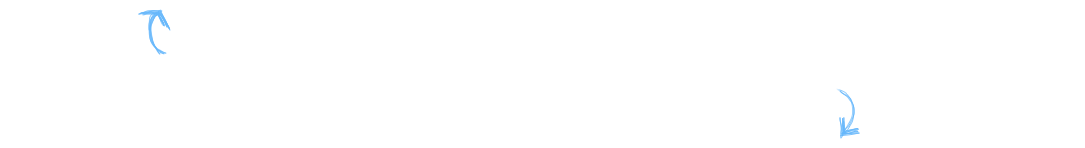
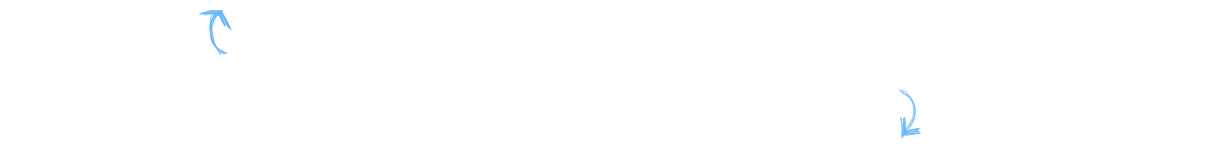
Update featured block

diff --git a/static/css/app.css b/static/css/app.css
@@ -28,6 +28,7 @@
     background-image:url("../images/bg.png");
     background-repeat:repeat-x;
     padding-bottom:50px;
+    background-position:center;
 }
 
 .banner{
@@ -56,6 +57,8 @@
 .assist-text{
     min-height: 200px;
     background-image:url("../images/sipky.png");
+    background-repeat:no-repeat;
+
 }
 
 .assist-text p{
